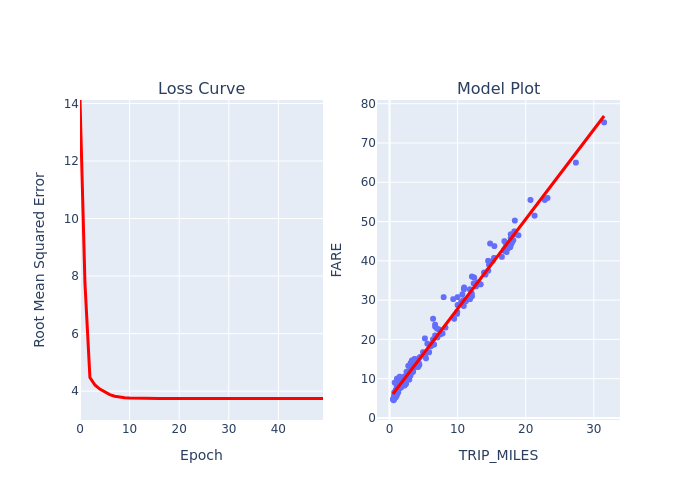
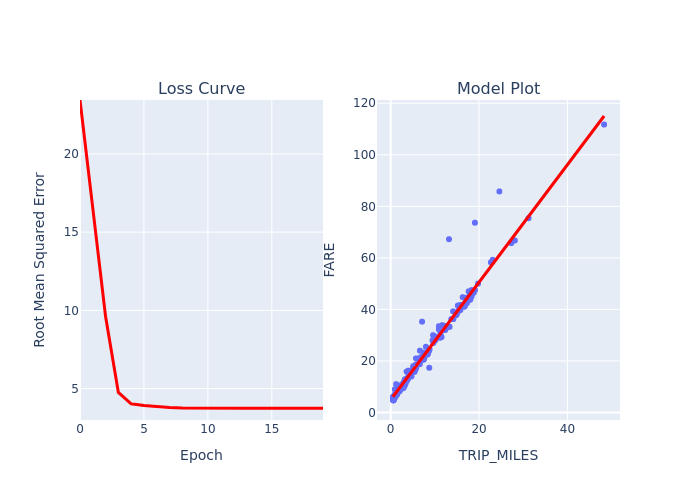
message

diff --git a/ml/my-mods/dataset_exploration.py b/ml/my-mods/dataset_exploration.py
@@ -44,6 +44,8 @@ def make_plots(df, feature_names, label_name, model_output, batch_size=200):
 
     if(len(feature_names) == 1):
         is_2d_plot = True
+    else:
+        is_2d_plot = False
 
     if(is_2d_plot):
         model_plot_type = 'scatter'
